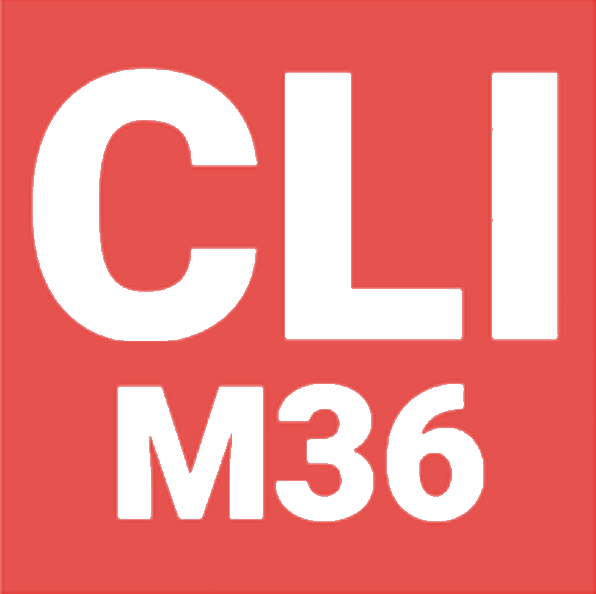
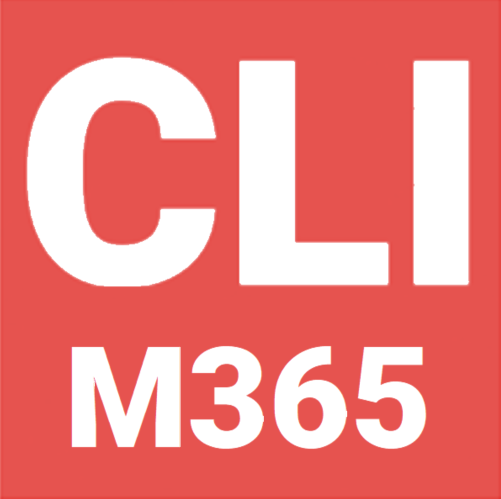
Grammar syntax refactor (#33)
* removed single letter grammar support

* fixed wrong icon and removed grammar

diff --git a/README.md b/README.md
@@ -4,7 +4,6 @@ This extension provides functionalities that may be helpful when creating script
 - docs viewer inside vscode
 - samples gallery
 - snippets with all possible commands
-- syntax support
 
 Please check [CLI for Microsoft 365 docs](https://pnp.github.io/cli-microsoft365/) for more information.
 
@@ -40,12 +39,6 @@ In order to use snippets please type part of a snippet and press enter or tab. T
 It is also possible to use command `Insert Snippet` in VS Code to see the full list
 
 ![snippetsList](/assets/images/listOfCommandsFromToolbar.png)
-
-### Syntax
-
-As first step of syntax support the extension has syntax highlight.
-
-![syntaxColor](/assets/images/syntaxColor.gif)
 
 ## 🤖 Commands
 
